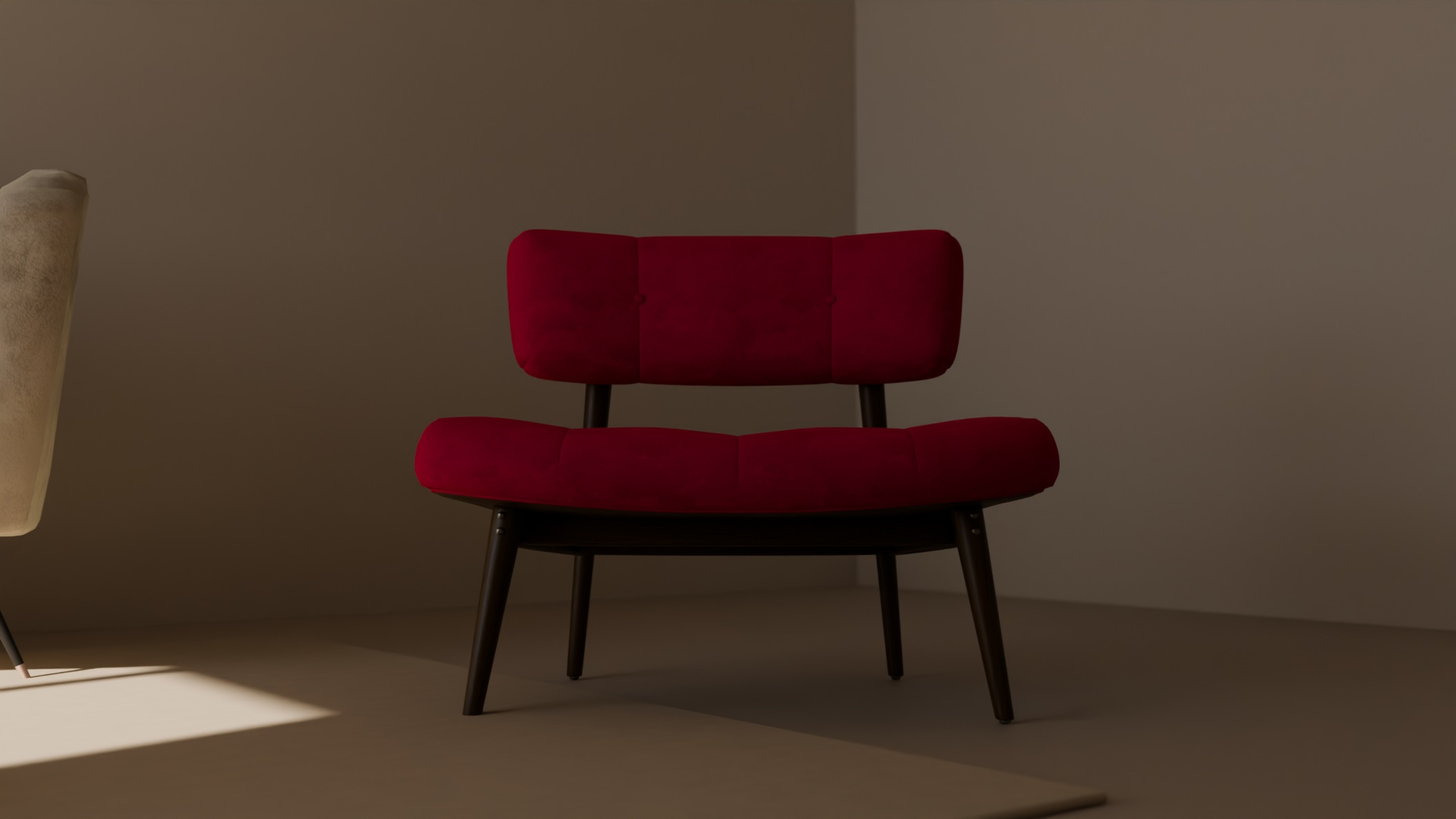
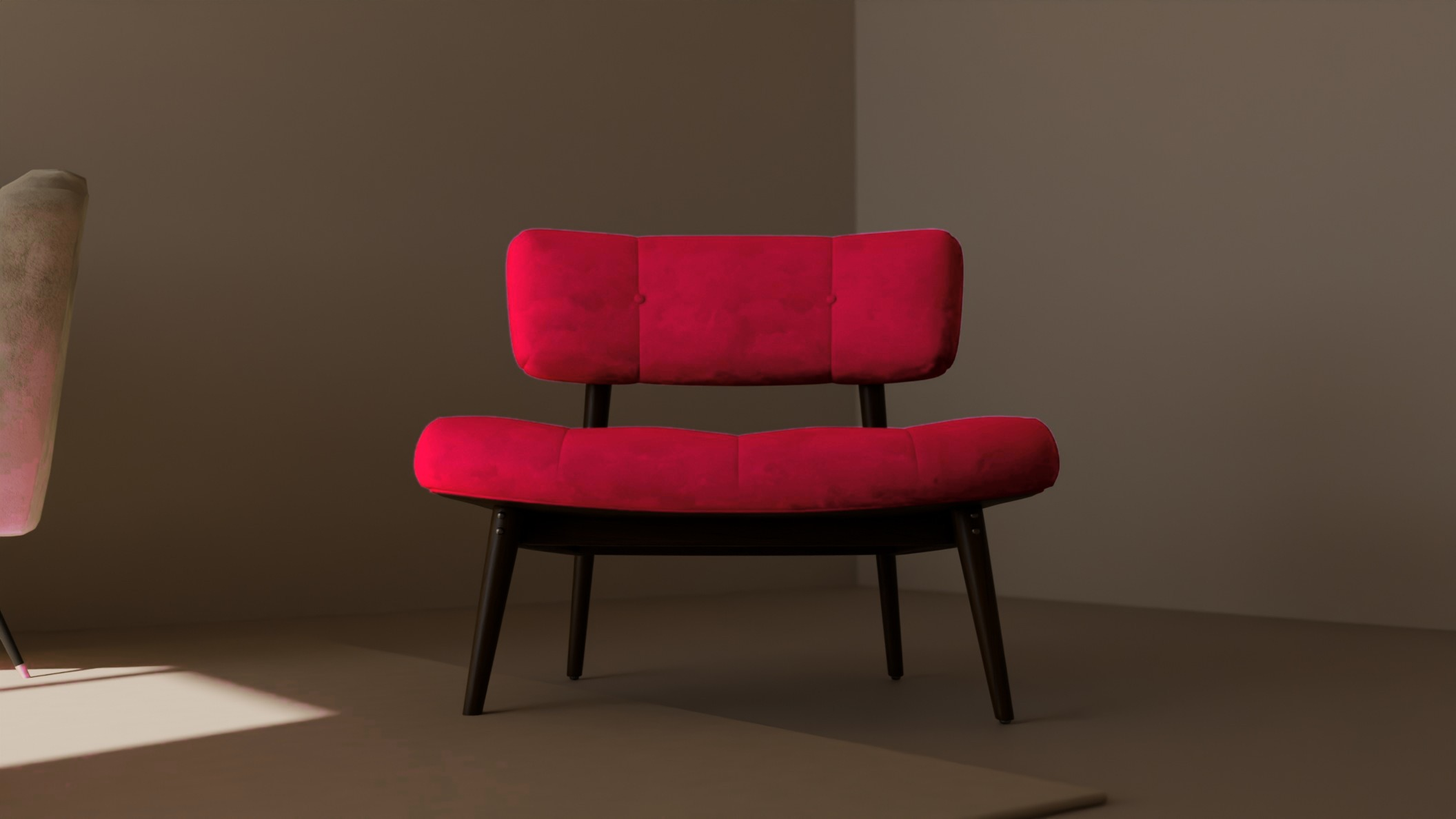
Ronde 3 du juge (7,5) : le fondateur dans le collage, une fin qui respire, plus de collage raté
- Ouverture : le dashboard v1 du fondateur (bleu + Arial, « Welcome back, User! », la poignée de main)
  arrive au centre parmi les beaux sites, sans teinte, curseur « You » posé dessus ; la barre M2 le traverse
- Fin : poussée de 1,5 %, la main suit Envoyer et hésite à 1542, anneau de survol ; la puce « vladan »
  remonte le bord droit et file dans TO sans passer sur le texte
- Chat : le pinceau ne teint que le velours bleu (masque tiré du rendu), trait plus large et plus doux ;
  lente poussée dans la vue 3D seulement
- Ship it : rayon de soleil visible sur les vitres, liserés sur les montants, contre-jour sur le dossier
- Rapport à 47 dès l'entrée ; barres du rapport à 0 vides ; téléphone à ×1,18 (marges) ;
  graphique « avant » posé sur sa ligne 0 ; puce de la grille au-dessus de « BORING ISSUES FOUND »
- Barre d'adresse de la carte de chaleur qui sort en entier ; Taste.tsx au pas des autres, guide prolongé ;
  fragments de fin en vrai code (« <h1> » n'est plus interprété) ; terminal : une espace, caret qui clignote,
  petite poussée ; landing : Ken Burns dans la carte ; chair_hero au rouge velours

Claude-Session: https://claude.ai/code/session_01YP8oHjmJmsAuw9WCGtV49x

Changed region(s): [[0.3438, 0.2803, 0.6875, 0.4672], [0.2812, 0.4983, 0.75, 0.6229], [0.0, 0.436, 0.0625, 0.654]]

diff --git a/saas-taste/js/shots2.js b/saas-taste/js/shots2.js
@@ -55,7 +55,9 @@ function shotTerm(F){ const f=F-1;
     Object.assign(tePanel.style,{left:(960-pw/2)+'px',top:(540-ph/2)+'px',width:pw+'px',height:ph+'px'});
     show(teSide,f>=790); const lx=f>=790?96:40, fs=lerp(34,26,st), lh=lerp(51,40,st);
     let w=''; for(const [wf,t] of TEW) if(f>=wf) w=t;
-    tePanelLine.innerHTML=`<span style="color:#F2EEE8">→</span> <span style="color:#F2EEE8">add</span>&nbsp;&nbsp;${w}`;
+    // une seule espace après « add » (plus de trou laissé par l'italique effacé) ; le caret clignote toutes les 8 images
+    tePanelLine.innerHTML=`<span style="color:#F2EEE8">→</span> <span style="color:#F2EEE8">add</span> ${w.replace(/^(&nbsp;|\s)+/,'')}<span style="display:inline-block;width:3px;height:1em;background:#F2EEE8;vertical-align:-0.15em;margin-left:4px;visibility:${Math.floor(f/8)%2?'hidden':'visible'}"></span>`;
+    TE.cam.style.transform=f<767?`scale(${(1+0.03*(0.5-0.5*Math.cos(Math.PI*clamp((f-750)/17)))).toFixed(4)})`:'';
     placeTL(tePanelLine,970-tePanelLine.offsetWidth/2,540-44,f>=766?1+0.1*(1-approach(f,766,4)):1);
     // le code arrive par paquets : insertion avec sélection (773, frappe 2 car./image jusqu'à 784), sauts d'indentation (784), paquets (788, 792, 796, 799)
     let row=0; teCode.forEach((d,i)=>{ const t0=CODE_T[i], on=f>=t0&&f>=767; show(d,on); if(!on) return;
@@ -115,12 +117,21 @@ const CH_HOVER=[[895,898,'bolt','Steel bolts · ×8'],[901,907,'seat','Velvet ·
 function chView3(f){ // caméra de la vue produit (réf) : recul + travelling flou à l'entrée, roulis, secousse au coup de pinceau, anticipation, poussée finale
   const a=approach(f,880,10,0.25); let s=lerp(1.25,1,a), x=120*(1-a), y=0, r=3*(approach(f,892,4)-approach(f,898,6));
   y+=22*(approach(f,924,2,0.5)-approach(f,927,8)); const an=approach(f,936,3); s*=1-0.04*an; r-=2.4*an*(1-approach(f,940,4));
+  s*=1+0.06*(0.5-0.5*Math.cos(Math.PI*clamp((f-890)/46)));   // lente poussée dans la vue 3D seulement : les panneaux et le texte ne bougent pas
   const pu=accel(f,940,10,3); s*=1+0.8*pu; y-=150*pu; return {s,x,y,r,bx:vel(t=>120*(1-approach(t,880,10,0.25)),f), by:vel(t=>-150*accel(t,940,10,3),f)}; }
 // le plateau tourne à vitesse constante (1,9°/image) jusqu'à 930, puis ralentit sur vladan et se pose de trois quarts
 function chIdx(f){ if(f<=930) return f-880; const t=clamp((f-930)/15); return 50+10*(1-(1-t)*(1-t)); }
 // M7 : le grand coup de feutre traverse l'assise ; l'encre boit dans le velours (926-932) en suivant le poil (luminance du rendu)
 const M7=()=>penPlace('G07',[862,492,1290,540]);
 const CH_MASK=document.createElement('canvas'); CH_MASK.width=275; CH_MASK.height=200;
+// le velours bleu (teinte 200-225°, saturation > 0,35), à basse résolution, adouci par l'agrandissement
+const CH_BLUE=document.createElement('canvas'); CH_BLUE.width=275; CH_BLUE.height=200; let CH_BLUE_SRC=null;
+function chBlueKey(src){ if(src===CH_BLUE_SRC) return; CH_BLUE_SRC=src; const x=CH_BLUE.getContext('2d'); x.clearRect(0,0,275,200); x.drawImage(src,0,0,275,200);
+  const im=x.getImageData(0,0,275,200), d=im.data;
+  for(let o=0;o<d.length;o+=4){ const r=d[o]/255, g=d[o+1]/255, b=d[o+2]/255, mx=Math.max(r,g,b), mn=Math.min(r,g,b), sat=mx>0?(mx-mn)/mx:0;
+    let h=0; if(mx===b&&mx>mn) h=240+60*(r-g)/(mx-mn); else if(mx===g&&mx>mn) h=120+60*(b-r)/(mx-mn);
+    const k=clamp((sat-0.3)/0.12)*clamp(1-Math.abs(h-212)/30); d[o]=d[o+1]=d[o+2]=255; d[o+3]=Math.round(255*k); }
+  x.putImageData(im,0,0); }
 function chToView(p,V){ // écran → pixels du canvas de la vue (inverse de la transformation CSS)
   const cx=630+459, cy=196+334; let x=p[0]-cx-V.x, y=p[1]-cy-V.y; const c=Math.cos(-V.r*Math.PI/180), s=Math.sin(-V.r*Math.PI/180);
   const xr=(x*c-y*s)/V.s, yr=(x*s+y*c)/V.s; return [(xr+459)*1100/918,(yr+334)*800/668]; }
@@ -144,7 +155,11 @@ function shotChat(f){
   // le coup de pinceau (918-924), puis le velours apparaît là où l'encre a bu, jusqu'à recouvrir tout le fauteuil (932)
   const ix=inkClear(chInk);
   // le pinceau teint le velours (fusion « couleur » : la teinte du stylo, le modelé du tissu), bord adouci : pas un autocollant
-  if(f>=918&&f<934){ const soak=clamp((f-924)/3); chInk.style.mixBlendMode='color'; chInk.style.filter='blur(3px)'; penDraw(ix,M7(),f,918,{size:34,alpha:1-soak,ground:'dark'}); }
+  if(f>=918&&f<934){ const soak=clamp((f-924)/3); chInk.style.mixBlendMode='color'; chInk.style.filter='blur(5px)'; penDraw(ix,M7(),f,918,{size:56,alpha:1-soak,ground:'dark'});
+    // la teinte ne touche que le velours bleu : masque tiré de l'image du fauteuil, posé avec la transformation de la vue
+    chBlueKey(TURN.blue[Math.min(47,i)]); ix.save(); ix.globalCompositeOperation='destination-in';
+    ix.setTransform(1,0,0,1,0,0); ix.translate(630+459+V.x,196+334+V.y); ix.rotate(V.r*Math.PI/180); ix.scale(V.s,V.s); ix.translate(-459,-334); ix.scale(918/1100,668/800);
+    ix.imageSmoothingEnabled=true; ix.drawImage(CH_BLUE,0,0,1100,800); ix.restore(); }
   const redOn=f>=925; show(chTurnR,redOn);
   if(redOn){ const red=TURN.red[clamp(i,38,71)]; const c=chTurnR.getContext('2d'); c.clearRect(0,0,1100,800); c.drawImage(red,0,0,1100,800);
     if(f<931){ chSoak(f,V,red); c.globalCompositeOperation='destination-in'; c.imageSmoothingEnabled=true; c.drawImage(CH_MASK,0,0,1100,800); c.globalCompositeOperation='source-over'; } }
@@ -182,8 +197,8 @@ const doFSeq=q1(doFullIn,'.vseq'), doFTitle=qa(doFullIn,'.vhead');
 const doTP=el(DO.cam,'','', 'position:absolute;inset:0;overflow:hidden;display:none;background:#EEE9E4');
 const doTPi=el(doTP,'','', 'position:absolute;left:0;top:0;width:1920px;height:1080px;transform-origin:960px 540px');
 doTPi.innerHTML=`<img src="img/turn/red_60.jpg" style="position:absolute;left:0;top:59px;width:1920px;height:1021px;object-fit:cover;object-position:50% 58%">
-  <div style="position:absolute;left:0;right:0;top:0;height:58px;background:#E4DFDA;box-shadow:0 1px 0 rgba(21,20,19,.12)">${[0,1,2].map(i=>`<span style="position:absolute;left:${24+i*23}px;top:22px;width:13px;height:13px;border-radius:50%;background:rgba(21,20,19,.15)"></span>`).join('')}
-  <div class="m" style="position:absolute;left:120px;top:12px;width:560px;height:34px;border-radius:9px;background:#F3EFEA;font-size:16px;line-height:34px;padding-left:16px;color:rgba(21,20,19,.7)">velvetly.app / <b style="font-weight:500;color:#151413">home</b></div></div>
+  <div class="dchr" style="position:absolute;left:0;right:0;top:0;height:58px;background:#E4DFDA;box-shadow:0 1px 0 rgba(21,20,19,.12)">${[0,1,2].map(i=>`<span style="position:absolute;left:${24+i*23}px;top:22px;width:13px;height:13px;border-radius:50%;background:rgba(21,20,19,.15)"></span>`).join('')}
+  <div class="m dchr" style="position:absolute;left:120px;top:12px;width:560px;height:34px;border-radius:9px;background:#F3EFEA;font-size:16px;line-height:34px;padding-left:16px;color:rgba(21,20,19,.7)">velvetly.app / <b style="font-weight:500;color:#151413">home</b></div></div>
   <div class="dghost" style="position:absolute;left:150px;top:150px;width:420px;height:280px;background:#D9DCE1"><svg width="120" height="96" viewBox="0 0 120 96" style="position:absolute;left:150px;top:80px"><rect x="3" y="3" width="114" height="90" rx="6" fill="none" stroke="#A9AEB6" stroke-width="4"/><circle cx="84" cy="30" r="10" fill="#A9AEB6"/><path d="M8 84 L42 44 L66 70 L80 56 L112 84 Z" fill="#A9AEB6"/></svg><div class="ar" style="position:absolute;left:0;right:0;top:204px;text-align:center;font-size:16px;color:#8A8F97">stock_handshake_final_v3.jpg</div></div>`;
 const doHeatC=canvas(doTPi,1920,1021,'left:0;top:59px;width:1920px;height:1021px');
 const doDotsC=canvas(doTPi,1920,1080,'left:0;top:0;width:1920px;height:1080px');
@@ -233,6 +248,7 @@ function shotDone(F){ const f=F-2;
     // les étiquettes restent fixes à l'écran pendant la poussée (sinon le cadre coupe « 1,204 sessions » et la légende)
     if(f<1062){ const Z=z*zz; Object.assign(doHud.style,{right:(1920-(960+(1892-960)/Z)).toFixed(1)+'px',top:(540+(84-540)/Z).toFixed(1)+'px',transform:`scale(${(1/Z).toFixed(4)})`,transformOrigin:'100% 0'});
       Object.assign(doLeg.style,{left:(960+(28-960)/Z).toFixed(1)+'px',bottom:(1080-(540+(1052-540)/Z)).toFixed(1)+'px',transform:`scale(${(1/Z).toFixed(4)})`,transformOrigin:'0 100%'}); }
+    qa(doTPi,'.dchr').forEach(e=>e.style.translate=`0 ${(-30*clamp((f-1018)/12)).toFixed(1)}px`);   // la barre d'adresse sort du cadre en entier, pas de liseré
     const k=f<1002?0:Math.min(5,1+Math.floor((f-1002)/3.6)); if(k!==doHeatK){ doHeatDraw(k); doHeatK=k; }
     q1(doTPi,'.dghost').style.opacity=(0.22*(1-clamp((f-1005)/6))).toFixed(3);
     const g=doDotsC.getContext('2d'); g.clearRect(0,0,1920,1080);
@@ -271,7 +287,7 @@ const grThumb2=crop(el(grIn,'gcard','', 'left:1680px;top:600px;width:240px;heigh
 const grStat=crop(el(grIn,'gcard','', 'left:240px;top:120px;width:480px;height:240px;display:none'));
 el(grStat,'abs m','BORING ISSUES FOUND','left:24px;top:22px;font-size:15px;letter-spacing:.1em;color:#8E877F'); const grNum=el(grStat,'abs ar','0','left:20px;top:58px;font-size:120px;color:#2D6CDF;line-height:1');
 const grChips=BORING.map(([t,n],i)=>{ const d=el(grIn,'m','',`position:absolute;height:52px;border-radius:12px;background:#151413;color:#F3EFEA;font-size:24px;line-height:52px;padding:0 20px;display:none;white-space:nowrap`); d._t=`${t} ×${n}`; d._st=1084+i*3; return d; });
-const GR_CHP=[[0,126],[600,486],[1700,126],[240,996],[1940,250],[740,250],[360,866]];
+const GR_CHP=[[0,58],[600,486],[1700,126],[240,996],[1940,250],[740,250],[360,866]];
 const grBars=crop(el(grIn,'gcard','', 'left:600px;top:600px;width:240px;height:240px;display:none')); const grBarE=BORING.map((b,i)=>el(grBars,'','', `position:absolute;left:${22+i*30}px;bottom:30px;width:22px;height:0;border-radius:2px;background:#2D6CDF`));
 const grCode=crop(el(grIn,'gcard','', 'left:1680px;top:360px;width:240px;height:240px;background:#151413;display:none'));
 const GR_CODE=['check("velvetly.app")','  .screens(5)','  .found(47)']; const grCodeL=GR_CODE.map((t,i)=>el(grCode,'abs m','',`left:16px;top:${30+i*34}px;font-size:16px;color:#F3EFEA`));
@@ -315,7 +331,7 @@ function shotReport(F){ const f=F-1;
   RE.cam.style.transform=`scale(${(1+0.08*approach(f,1131,36,0.09)).toFixed(4)})`;
   // la carte monte (40 px, 10 images), le 47 se compte, les lignes et les barres par catégorie arrivent une à une
   const p=approach(f,1130,6); place(reCard,960,545+40*(1-vl(f,1131,10))); reCard.style.opacity=lerp(0.3,1,p).toFixed(3);
-  reNum.textContent=Math.round(47*vladan(clamp((f-1131)/12)));
+  reNum.textContent='47';   // pas de compte à partir de 0 : dans ce film, 0 veut dire « réglé »
   reRows.forEach((r,i)=>{ const a=vl(f,1137+i*3,4); r.style.opacity=a.toFixed(2); r.style.transform=`translateY(${(8*(1-a)).toFixed(1)}px)`; });
   reBars.forEach((r,i)=>{ const a=vl(f,1139+i*2,5); r.style.opacity=Math.min(1,a*2).toFixed(2); r.lastChild.style.transform=`scaleX(${a.toFixed(3)})`; });
   // le clic du fondateur (1161) : « Applying… 0/47 », une ligne d'encre de 2 px qui atteint 6 % à 1175
@@ -403,21 +419,23 @@ const shSkyI=document.createElement('img'); shSkyI.src=shSkyC.toDataURL(); shSky
 const shWin=el(SH.cam,'','', 'position:absolute;inset:0;pointer-events:none');
 shWin.innerHTML=`<div style="position:absolute;left:0;top:0;right:0;height:26px;background:#151413"></div><div style="position:absolute;left:0;bottom:0;right:0;height:26px;background:#151413"></div>
   <div style="position:absolute;left:0;top:0;bottom:0;width:26px;background:#151413"></div><div style="position:absolute;right:0;top:0;bottom:0;width:26px;background:#151413"></div>
-  <div style="position:absolute;left:631px;top:0;bottom:0;width:18px;background:#151413"></div><div style="position:absolute;left:1271px;top:0;bottom:0;width:18px;background:#151413"></div>
-  <div style="position:absolute;left:0;right:0;top:351px;height:18px;background:#151413"></div>
+  <div style="position:absolute;left:631px;top:0;bottom:0;width:18px;background:#151413;box-shadow:inset 2px 0 0 rgba(255,228,206,.28),inset -2px 0 0 rgba(255,228,206,.16)"></div><div style="position:absolute;left:1271px;top:0;bottom:0;width:18px;background:#151413;box-shadow:inset 2px 0 0 rgba(255,228,206,.28),inset -2px 0 0 rgba(255,228,206,.16)"></div>
+  <div style="position:absolute;left:0;right:0;top:351px;height:18px;background:#151413;box-shadow:inset 0 2px 0 rgba(255,228,206,.28)"></div>
   <div style="position:absolute;left:-60px;right:-60px;top:1080px;height:900px;background:linear-gradient(180deg,#8E7F73 0,#7B6D63 220px,#665a52 900px)"></div>
   <div style="position:absolute;left:-60px;right:-60px;top:1080px;height:16px;background:#B7A799;box-shadow:0 1px 0 #CDBFB1 inset,0 10px 24px rgba(40,30,25,.35)"></div>`;
 // le fauteuil détouré (img/ship_chair.png, tiré de red_60), à contre-jour devant le mur ; il monte avec la pièce quand la caméra descend
 const shChair=el(SH.cam,'','', 'position:absolute;left:1520px;top:1168px;width:665px;height:602px');
-shChair.innerHTML='<img src="img/ship_chair.png" style="width:100%;height:100%;filter:brightness(.6) contrast(1.08) saturate(.95)">';
+shChair.innerHTML='<img src="img/ship_chair.png" style="width:100%;height:100%;filter:brightness(.6) contrast(1.08) saturate(.95) drop-shadow(0 -2px 0 rgba(255,205,180,.55))">';   // contre-jour : un liseré chaud sur le haut du dossier
 // le soleil entre en biais par la fenêtre : un rayon chaud très léger sur le mur et le fauteuil
-const shShaft=el(SH.cam,'','', 'position:absolute;inset:-200px;pointer-events:none;mix-blend-mode:screen;background:linear-gradient(118deg,transparent 30%,rgba(255,236,214,1) 42%,rgba(255,236,214,1) 52%,transparent 66%)');
+const shShaft=el(SH.cam,'','', 'position:absolute;left:-200px;top:-200px;width:2320px;height:1280px;pointer-events:none;mix-blend-mode:screen;background:linear-gradient(118deg,transparent 34%,rgba(255,240,224,1) 43%,rgba(255,240,224,1) 50%,transparent 59%)');
 const shBtn=el(SH.s,'bbtn',''); shBtn.style.zIndex=5; shBtn.style.width='228px'; shBtn.style.padding='0'; shBtn.style.textAlign='center'; shBtn.style.borderRadius='14px';
 const shRing=el(SH.s,'','', 'position:absolute;left:960px;top:540px;width:0;height:0;border-radius:50%;box-shadow:0 0 0 1px #151413;z-index:4');
 cR28(1250,'impact',{v:.5}); cR28(1293,'beep',{v:.6}); cR28(1298,'riser',{v:.55,end:1306});
 function shotShip(F){ const f=F-1; SH.cam.style.transform=`scale(${(1+0.03*clamp((f-1250)/56)).toFixed(4)})`;   // poussée de 3 %
-  shShaft.style.opacity=(0.08+0.03*Math.sin((f-1250)/9)).toFixed(3);
-  const y=-900*approach(f,1250,36,0.11); shSky.style.transform=`translateY(${y.toFixed(1)}px)`; shWin.style.transform=`translateY(${(y*0.35+0).toFixed(1)}px)`; shChair.style.transform=`translateY(${(y*0.42).toFixed(1)}px)`;
+  const y=-900*approach(f,1250,36,0.11);
+  // le rayon (≈ +14 niveaux sur les vitres) glisse de 60 px pendant le plan ; il ne descend pas sur le mur
+  shShaft.style.opacity='0.5'; shShaft.style.transform=`translateX(${(60*clamp((f-1250)/56)).toFixed(1)}px)`; shShaft.style.clipPath=`inset(0 0 ${Math.max(0,1280-(200+1080+y*0.35)).toFixed(0)}px 0)`;
+   shSky.style.transform=`translateY(${y.toFixed(1)}px)`; shWin.style.transform=`translateY(${(y*0.35+0).toFixed(1)}px)`; shChair.style.transform=`translateY(${(y*0.42).toFixed(1)}px)`;
   const n=clamp(f-1250,0,7); shBtn.innerHTML='Ship it'.slice(0,n)+(f<1262||Math.floor(f/8)%2?'<span style="display:inline-block;width:3px;height:40px;background:#F3EFEA;vertical-align:-6px;margin-left:3px"></span>':'');
   // le clic tombe à 1293, comme dans la réf
   const pr=f>=1293&&f<1295; place(shBtn,960,540,pr?0.94:1); shBtn.style.background='#151413';
@@ -446,14 +464,14 @@ const MOS=[[moP,1307],[moR,1325],[moDa,1336],[moL,1349]];
 cR29(1307,'impact',{v:.7}); cR29(1325,'impact',{v:.6}); cR29(1336,'impact',{v:.6}); cR29(1349,'impact',{v:.7}); [1312,1314,1315].forEach(f=>cR29(f,'tick',{v:.2})); cR29(1372,'shimmer',{v:.45,end:1378});
 // les fragments corrigés reviennent à la place exacte de leurs jumeaux ennuyeux (5, lisibles, 30 px), à cheval sur la fin du montage
 const OU_FIX=[[4,'/* done. it sits. */'],[10,'/* nothing is !important */'],[13,'cursor: you;'],[5,'<h1>Morning, Léa.</h1>'],[12,'ease: vladan;']];
-const moFix=OU_FIX.map(([i,t])=>{ const d=el(MO.s,'abs frag',t,'font-size:30px;z-index:20;display:none'); d._i=i; return d; });
+const moFix=OU_FIX.map(([i,t])=>{ const d=el(MO.s,'abs frag','','font-size:30px;z-index:20;display:none'); d.textContent=t; d._i=i; return d; });
 function fixFrags(list,f,f0){ list.forEach(d=>{ const on=f>=f0&&f<1386; show(d,on); if(!on) return; const src=wFr[d._i]; placeTL(d,src._x,src._y); d.style.color=mixc('#FFC2CD','#151413',clamp((f-f0)/6)); }); }
 function shotMont(F){ const f=F-1; let cur=MOS[0]; for(const m of MOS) if(f>=m[1]) cur=m;
   MOS.forEach(m=>show(m[0],m===cur)); const a=f-cur[1];
   let sc=1; if(cur[0]===moP) sc=1+0.035*approach(f,1307,18,0.12); else if(cur[0]===moR) sc=1+0.0007*a; else if(cur[0]===moDa) sc=1+0.0016*a; else sc=1-0.03*accel(f,1366,10,2);
   place(cur[0],960,540,sc);
   if(cur[0]===moP){ moStat.firstChild.textContent=f>=1314?'+45%':'+14%'; moStat2.textContent=f>=1315?'0:42':'52 s'; }
-  if(cur[0]===moDa) moBars.forEach((r,i)=>{ r.lastChild.style.transform=`scaleX(${(1-vl(f,1337+i,5)).toFixed(3)})`; });
+  if(cur[0]===moDa) moBars.forEach((r,i)=>{ r.lastChild.style.transform=`scaleX(${(1-vl(f,1336+i*0.4,3)).toFixed(3)})`; });   // toutes à 0 dès 1342
   if(cur[0]===moL){ seqDraw(moLSeq,SEQ.land,a*1.0,0.5,0.58); moLh.style.transform=`translateX(${(-2.3*a).toFixed(1)}px)`;
     moLT.forEach((t,i)=>{ const p=approach(f,1350+i,8,0.2); t.style.translate=`0 ${((1-p)*24).toFixed(1)}px`; }); }
   fixFrags(moFix,f,1366);
@@ -462,7 +480,7 @@ function shotMont(F){ const f=F-1; let cur=MOS[0]; for(const m of MOS) if(f>=m[1
 /* ---------- 31-32 · fragments corrigés → anneau → marque → « vladan » + « Made in code. Marked up by hand. » → la carte de fin : le brief était un e-mail à Vladan ---------- */
 const OU=scene('sOutro',1380,1559,f=>shotOutro(f));
 const cR31=cueAt(2);
-const ouFix=OU_FIX.map(([i,t])=>{ const d=el(OU.s,'abs frag',t,'font-size:30px;z-index:20;display:none'); d._i=i; return d; });
+const ouFix=OU_FIX.map(([i,t])=>{ const d=el(OU.s,'abs frag','','font-size:30px;z-index:20;display:none'); d.textContent=t; d._i=i; return d; });   // textContent : « <h1> » reste du code
 const ouGl=gset(16,77,420,190).map(g=>{ const d=el(OU.cam,'abs c glyph'); d._g=g; d.textContent=g[0]; d.style.color=GINK; return d; });
 const ouDot=el(OU.cam,'abs','', 'border-radius:50%');
 const ouMark=el(OU.cam,'abs','', 'width:81px;height:81px'); ouMark.innerHTML=MARK_SVG;
@@ -503,6 +521,7 @@ const DOT_C=['#151413','#151413','#151413','#FF3D5E'];
 function ouLineGeom(f){ const sp=12, pad=30; const TW=OUW.map((_,i)=>OUL.ws.slice(0,i+1).reduce((a,b)=>a+b+sp,0)-sp); let tw=TW[0]; for(let i=1;i<OUW.length;i++) tw=lerp(tw,TW[i],approach(f,OUW[i][0],9,0.5));
   const h=vl(f,1489,6); const S=lerp(1,200/48,h); const x0=lerp(960-tw/2,144,h), y0=lerp(540-26,120,h); return {tw,S,x0,y0,sp,pad,h}; }
 function shotOutro(F){ const f=F-2; push(OU.cam,f,1378,f<1489?0.0008:0);
+  const OS=f>=1520?1+0.015*(1-Math.pow(1-clamp((f-1520)/39),2)):1; if(f>=1520) OU.cam.style.transform=`scale(${OS.toFixed(4)})`;   // l'affiche respire : 1,5 % de poussée, pas un arrêt sur image
   fixFrags(ouFix,f,1366);
   // anneau de glyphes à l'encre (1385-1391), le point à l'encre puis rouge à l'arrivée de la marque (1398)
   const k=lerp(1,0.7,approach(f,1387,6)); ouGl.forEach((d,i)=>{ const on=f>=1385&&f<1392; show(d,on); if(!on) return; const g=d._g; place(d,960+g[1]*k,540+g[2]*k); });
@@ -531,15 +550,19 @@ function shotOutro(F){ const f=F-2; push(OU.cam,f,1378,f<1489?0.0008:0);
     const hh=226*vl(f,1496,4); ouTo.style.height=hh+'px'; ouBody.style.top=(44+hh*(212/226))+'px';
     const fl=clamp((f-1499)/6), fe=vladan(fl); ouMC.style.opacity=(1-clamp((f-1499)/2)).toFixed(2); ouMW.style.visibility=f>=1499?'hidden':'visible'; ouModel.style.width=f>=1499?lerp(110,0,clamp((f-1499)/3))+'px':'';
     const cr=ouCard.getBoundingClientRect(), st=OU.s.getBoundingClientRect(), kk=st.width/W;
-    show(ouFly,f>=1499&&f<1505); if(f>=1499&&f<1505){ const sx=144+1500-130-110, sy=440+OU_CH-38-26, tx=144+44+150, ty=440+16+5; const x=lerp(sx,tx,fe), y=lerp(sy,ty,fe)-60*Math.sin(Math.PI*fl);
+    show(ouFly,f>=1499&&f<1505); if(f>=1499&&f<1505){ const sx=144+1500-130-110, sy=440+OU_CH-38-26, tx=144+44+150, ty=440+16+5; const cx=1480, cy=470, m=1-fe; const x=m*m*sx+2*m*fe*cx+fe*fe*tx, y=m*m*sy+2*m*fe*cy+fe*fe*ty;   // remonte le bord droit puis file dans TO : jamais au-dessus du texte
       placeTL(ouFly,x,y,lerp(1,92/26,fe)); }
     ouToA.textContent=f<1505?'':'vladan'+'@kwinndo.fr'.slice(0,Math.floor((f-1505+1)*2));
     // le trait M3 séché, toujours sur « Arial, »
-    const ix=inkClear(ouInk); const sp=q1(ouBrief,'.ari'); if(sp&&r>0.5){ const b=sp.getBoundingClientRect(); const rr=[(b.left-st.left)/kk,(b.top-st.top)/kk,(b.right-st.left)/kk,(b.bottom-st.top)/kk];
+    const ix=inkClear(ouInk); const sp=q1(ouBrief,'.ari'); if(sp&&r>0.5){ const b=sp.getBoundingClientRect(); const cx_=v=>960+(v-960)/OS, cy_=v=>540+(v-540)/OS; const rr=[cx_((b.left-st.left)/kk),cy_((b.top-st.top)/kk),cx_((b.right-st.left)/kk),cy_((b.bottom-st.top)/kk)];   // écran → caméra (la poussée finale)
       penDraw(ix,penPlace('G03',[rr[0]-6,rr[3]-28*0.52*0.5-9,rr[2]+10,0]),1e6,0,{size:3.4,alpha:r}); }
     // M9 : le stylo souligne « taste. » (1508-1516) ; le soulignement dépasse quand l'italique, plus étroit, prend sa place
     if(f>=1508){ const x=G.x0+(OUL.ws[0]+OUL.ws[1]+2*G.sp)*G.S, w=OUL.ws[2]*G.S; penDraw(ix,penPlace('G09',[x-4,G.y0+48*G.S*0.98,x+w+8,0]),f,1508,{size:13}); } }
   // le fondateur revient (linéaire, sur deux images) ; à 1524 la main survole Envoyer, au même décalage qu'à 206. Il ne clique jamais : le bouton ne change pas.
-  const cf=twos(f,1516), cp=clamp((cf-1516)/8); const sx2=144+1500-30-36, sy2=440+OU_CH-24-36;
-  cursor(lerp(1760,sx2-4,cp),lerp(1010,sy2+4,cp),0,f>=1516,1,f>=1524?'hand':'arrow');
+  // la cible est lue sur le bouton lui-même (il suit la poussée) ; à 1542 la main hésite (6 px vers Envoyer, puis revient) ; anneau de survol, jamais pressé
+  const cf=twos(f,1516), cp=clamp((cf-1516)/8); let sx2=144+1500-30-36, sy2=440+OU_CH-24-36;
+  if(f>=1492){ const b=ouSend.getBoundingClientRect(), st=OU.s.getBoundingClientRect(), kk=st.width/W; sx2=((b.left+b.right)/2-st.left)/kk; sy2=((b.top+b.bottom)/2-st.top)/kk; }
+  const hz=f>=1542&&f<1550?Math.sin(Math.PI*(f-1542)/8)*6:0;
+  cursor(lerp(1760,sx2-4,cp)-hz*0.7,lerp(1010,sy2+4,cp)-hz*0.7,0,f>=1516,1,f>=1524?'hand':'arrow');
+  ouSend.style.boxShadow=f>=1524?`0 0 0 ${(4*vl(f,1524,4)).toFixed(1)}px rgba(21,20,19,.3)`:'';
 }

diff --git a/saas-taste/js/shots1.js b/saas-taste/js/shots1.js
@@ -63,6 +63,20 @@ const wCol=el(W1.cam,'abs','', 'inset:0;width:1920px;height:1080px'); let wColB=
 const wB=BR.map(([x,y,w,h,si])=>{ const d=el(wCol,'bshot',SITES[si].html, `left:0;top:0;width:${w}px;height:${h}px;transform-origin:0 0;background:${SITES[si].color}`); d._r=[x,y,w,h]; d._si=si; return d; });
 const wX=BXT.map(([si,w,h])=>{ const d=el(wCol,'bshot',SITES[si].html, `left:0;top:0;width:${w}px;height:${h}px;transform-origin:0 0;background:${SITES[si].color}`); d._w=w; d._h=h; d._si=si; return d; });
 const ease3=t=>t<.5?4*t*t*t:1-Math.pow(-2*t+2,3)/2;
+// la carte du fondateur parmi les beaux sites (juge, ronde 3) : SON dashboard v1, bleu #2D6CDF + Arial, pas de teinte ;
+// elle arrive en dernier (92, quand « boring. » s'en va), au centre, le curseur « You » posé dessus ; la barre M2 la traverse et la déchirure l'emporte
+const wFo=el(wCol,'bshot','', 'left:0;top:0;width:560px;height:350px;transform-origin:0 0;background:#F4F6F9;display:none;overflow:hidden;border-radius:10px');
+wFo.innerHTML=`<div class="ar" style="position:absolute;inset:0;font-family:'AR'">
+  <div style="position:absolute;left:0;top:0;bottom:0;width:118px;background:#2D6CDF;color:#fff"><div style="position:absolute;left:16px;top:18px;font-weight:700;font-size:17px">velvetly</div>
+    ${['Dashboard','Rooms','Embeds','Settings'].map((t,i)=>`<div style="position:absolute;left:10px;right:10px;top:${58+i*30}px;height:24px;border-radius:5px;${i?'':'background:rgba(255,255,255,.18);'}font-size:11px;line-height:24px;padding-left:10px">${t}</div>`).join('')}</div>
+  <div style="position:absolute;left:138px;top:20px;font-weight:700;font-size:21px;color:#333">Welcome back, User! <span style="font-family:'Noto Color Emoji'">👋</span></div>
+  <div style="position:absolute;left:138px;top:48px;font-size:11px;color:#777">Here is your dashboard overview.</div>
+  <div style="position:absolute;right:16px;top:18px;height:28px;line-height:28px;padding:0 14px;border-radius:5px;background:#2D6CDF;color:#fff;font-size:12px;font-weight:700;box-shadow:0 4px 8px rgba(0,0,0,.35)">Get Started</div>
+  ${[['Rooms published','1,234'],['Embeds','312'],['3D views','48.2k']].map(([t,v],i)=>`<div style="position:absolute;left:${138+i*136}px;top:76px;width:124px;height:66px;background:#fff;box-shadow:0 2px 6px rgba(0,0,0,.18)"><div style="position:absolute;left:10px;top:9px;font-size:10px;color:#777">${t}</div><div style="position:absolute;left:10px;top:30px;font-size:21px;font-weight:700;color:#333">${v}</div></div>`).join('')}
+  <div style="position:absolute;left:138px;top:156px;width:250px;height:176px;background:#fff;box-shadow:0 2px 6px rgba(0,0,0,.18)"><div style="position:absolute;left:12px;top:10px;font-size:11px;font-weight:700;color:#333">Monthly 3D Views</div>
+    ${[40,52,34,60,48,70,44,74,62,84,66,90].map((h,i)=>`<i style="position:absolute;left:${16+i*19}px;bottom:16px;width:12px;height:${h*1.25}px;background:#2D6CDF;display:block"></i>`).join('')}</div>
+  <div style="position:absolute;left:402px;top:156px;width:142px;height:176px;background:#D9DCE1"><svg width="56" height="45" viewBox="0 0 120 96" style="position:absolute;left:43px;top:52px"><rect x="3" y="3" width="114" height="90" rx="6" fill="none" stroke="#A9AEB6" stroke-width="6"/><circle cx="84" cy="30" r="10" fill="#A9AEB6"/><path d="M8 84 L42 44 L66 70 L80 56 L112 84 Z" fill="#A9AEB6"/></svg>
+    <div style="position:absolute;left:0;right:0;top:112px;text-align:center;font-size:8.5px;color:#8A8F97">stock_handshake_final_v3.jpg</div></div></div>`;
 [10,17,23,30].forEach((f,i)=>cue(f,'pluck',{n:[64,67,69,71][i],v:.3})); cue(8,'tick',{v:.4}); cue(37,'scratch',{v:.45,end:41}); [43,44,45,46,47].forEach(f=>cue(f,'tick',{v:.16}));
 [27,33,36,42,49].forEach(f=>cue(f,'tick',{v:.2})); cue(53,'shimmer',{v:.3,end:61}); cue(104,'riser',{v:.4,end:119}); cue(62,'swish',{v:.45,peak:64,dur:6}); cue(89,'whoosh',{v:.4,peak:99,dur:14}); [64,66,67,70].forEach(f=>cue(f,'tick',{v:.2})); cue(96,'swish',{v:.45,peak:97,dur:4}); cue(104,'scratch',{v:.9,end:111}); cue(113,'tear',{v:.6,end:121}); cue(114,'reel',{v:.35,end:127});
 function wState(f){ let st=['','']; for(const [wf,a,b] of WST) if(f>=wf) st=[a,b]; return st; }
@@ -102,6 +116,13 @@ function shotW(f){ push(W1.cam,f,0,0.0009);
     d.style.transform=`translate(${(Xg-d._w*Sg/2).toFixed(1)}px,${(Yg-d._h*Sg/2).toFixed(1)}px) rotate(${rot}deg) scale(${Sg.toFixed(4)})`; d.style.borderRadius='10px'; d.style.boxShadow='0 20px 50px -20px rgba(40,30,30,.35)';
     mblur(d,vel(t=>lerp(960+ox*1400+cx,960+cx,approach(t,st,12)),f)*BLUR,vel(t=>lerp(540+oy*900+cy,540+cy,approach(t,st,12)),f)*BLUR);
     d.style.filter=(f>=114&&f<117?DUO(d._si):''); });
+  // la carte du fondateur : monte du bas à 88, se pose au centre, sur le dessus ; le curseur « You » se pose sur « Get Started » (il ne clique pas)
+  const foOn=f>=92; show(wFo,foOn);
+  if(foOn){ const p=approach(f,92,7,0.22), S=1.0+0.02*clamp((f-98)/14), X=960, Y=lerp(1000,548,p);
+    wFo.style.zIndex=40; wFo.style.transform=`translate(${(X-280*S).toFixed(1)}px,${(Y-175*S).toFixed(1)}px) scale(${S.toFixed(4)})`;
+    wFo.style.boxShadow='0 30px 60px -24px rgba(40,30,30,.45)'; mblur(wFo,0,vel(t=>lerp(1000,548,approach(t,92,7,0.22)),f)*BLUR*0.5);
+    wFo.style.filter=f>=116?`blur(${(accel(f,116,5,1.6)*18).toFixed(1)}px)`:'';
+    const cp=clamp((twos(f,97)-97)/7); if(f>=97&&f<113) cursor(lerp(1330,X+238*S,cp),lerp(820,Y-175*S+40*S,cp),0,true,1,cp>=1?'hand':'arrow'); }
   // M2 : la barre oblique traverse toute la pile (104-111), la pile se déchire le long du trait (113-119)
   if(f>=104&&f<120){ const st=M2(); if(f<114) penDraw(cx,st,f,104,{size:13}); else slashThread(cx,f); }
   tear(f);
@@ -231,6 +252,7 @@ function shotLand(f){
   place(laFrame,x,y,sc); laFrame.style.filter=gone>0?`blur(${(10*gone).toFixed(1)}px) brightness(${(1+0.35*gone).toFixed(2)})`:''; laFrame.style.opacity=(1-0.85*clamp((f-297)/3)).toFixed(3);
   mblur(LA.cam,f>=276&&f<281?vel(t=>40*accel(t,274,6.5,2.6),f):0,0);
   seqDraw(laSeq,SEQ.land,fl-234);
+  { const t=0.5-0.5*Math.cos(Math.PI*clamp((f-238)/52)); laSeq.style.transformOrigin='50% 55%'; laSeq.style.transform=`translateX(${(-40*t).toFixed(1)}px) scale(${(1+0.06*t).toFixed(4)})`; }   // Ken Burns dans la carte
   q1(laD,'.lnh').style.transform=`translateX(${(-290*approach(f,235,36,0.10)).toFixed(1)}px)`;
   qa(laMark,'svg path').forEach(p=>p.style.strokeDashoffset=(1-vl(f,234,4)).toFixed(3));
   if(INK&&f<234){ show(INK.canvas,true); LA.s.appendChild(INK.canvas); const r=laMark.getBoundingClientRect(), st=LA.s.getBoundingClientRect(), k=st.width/W;
@@ -256,11 +278,12 @@ const TREE=[[300,'▾ Taste Files',150,0,'title'],[305,'Brand.ts',380,1,'file'],
 const glyphs=t=>[...t].map(c=>`<span class="g">${c}</span>`).join('');
 const trEls=TREE.map(([f0,t,x,row,kind])=>{ const d=el(TR.cam,'titem'); d._k=kind; d._x=x; d._row=row; d._f=f0; d._t=t;
   d.innerHTML=kind==='title'?`<span style="font-family:JB;margin-right:16px">▾</span>Taste Files`:kind==='dir'?`<span class="chev" style="font-family:JB;display:inline-block;margin-right:16px">›</span>${t}`
-    :kind==='last'?`<span class="fi"></span><em style="font-size:82px">Taste</em>.tsx`:`<span class="fi"></span>${/NoMoreArial|EaseOut/.test(t)?glyphs(t):t}`;
-  Object.assign(d.style,{fontSize:kind==='title'?'84px':kind==='last'?'84px':'72px',color:'#151413'}); if(kind==='title') d.style.color='#3A3633'; return d; });
+    :kind==='last'?`<span class="fi"></span><em style="font-size:72px">Taste</em>.tsx`:`<span class="fi"></span>${/NoMoreArial|EaseOut/.test(t)?glyphs(t):t}`;
+  Object.assign(d.style,{fontSize:kind==='title'?'84px':'72px',color:'#151413'}); if(kind==='title') d.style.color='#3A3633'; return d; });
 const trEase=el(TR.cam,'abs','', 'display:flex;align-items:center;gap:18px'); 
 trEase.innerHTML=`<svg width="120" height="44" viewBox="0 0 120 44"><path d="M2 42 ${Array.from({length:41},(_,i)=>`L${(2+i*2.9).toFixed(1)} ${(42-40*vladan(i/40)).toFixed(1)}`).join(' ')}" fill="none" stroke="#151413" stroke-width="1.75" stroke-linecap="round"/></svg><span class="m" style="font-size:22px;color:#151413">ease: vladan</span>`;
-const trLines=[[360,1,3],[590,4,6]].map(([x,a,b])=>{ const l=el(TR.cam,'tline'); l._x=x; l._a=a; l._b=b; return l; });
+const trLines=[[360,1,3],[590,4,7]]   // le guide descend jusqu'à Taste.tsx, frère d'EaseOut au même pas de 100 px
+.map(([x,a,b])=>{ const l=el(TR.cam,'tline'); l._x=x; l._a=a; l._b=b; return l; });
 TREE.forEach(([f0],i)=>cue(f0,i==TREE.length-1?'pluck':'tick',{v:i==TREE.length-1?.5:.3,n:79}));
 const TR_STEPS=[[305,232],[312,219],[317,175],[322,149],[329,107]];
 function trY(f){ let y=313; for(const [s,t] of TR_STEPS) y=lerp(y,t,approach(f,s,s==329?9:4,0.3)); return y; }
@@ -441,7 +464,7 @@ phDone.innerHTML=`<div style="position:absolute;left:24px;top:96px;width:44px;he
 cR14(559,'impact',{v:.55}); cR14(566,'shimmer',{v:.35,end:578}); [588,603].forEach(f=>cR14(f,'tick',{v:.3})); cR14(606,'swish',{v:.45,peak:609,dur:8}); cR14(608,'pop',{v:.5,n:84});
 function shotPhone(F){ const f=F-2;   // numéros de la réf (REMAP +2)
   // dépli en hauteur (478 → 861 px), puis la caméra s'approche (×0,9 → ×1,28, décélération) en tournant de 4° : le téléphone vit
-  const pt=clamp((f-559)/82), ps=lerp(0.9,1.28,1-Math.pow(1-pt,2.2)), ry=lerp(-2.5,1.5,pt);
+  const pt=clamp((f-559)/82), ps=lerp(0.9,1.18,1-Math.pow(1-pt,2.2)), ry=lerp(-2.5,1.5,pt);   // 1,18 : ~60 px de marge, le téléphone ne touche jamais le cadre
   phone.style.transform=`translate(960px,540px) translate(-50%,-50%) perspective(2400px) rotateY(${ry.toFixed(2)}deg) scale(${ps.toFixed(4)}) scaleY(${lerp(0.555,1,approach(f,559,13,0.25)).toFixed(4)})`;
   phShadow.style.transform=`translateY(${(430*(ps-1)).toFixed(1)}px) scale(${ps.toFixed(3)},1)`;
   seqDraw(phSeq,SEQ.phone,f-559); phSeq.style.transform=`scale(1.14) translateX(${lerp(-24,24,pt).toFixed(1)}px)`;

diff --git a/saas-taste/js/dash.js b/saas-taste/js/dash.js
@@ -27,7 +27,8 @@ function buildDash(root){
   });
   h+=`<div class="d-box" id="CH" style="left:300px;top:350px;width:650px;height:410px">`;
   h+=sw(5,0,28,20,36,`<span class="ar" style="font-weight:700;font-size:18px;color:#333">Monthly 3D Views</span>`,`<span style="font-size:25px;letter-spacing:-0.02em">3D views <span class="m" style="font-size:15px;color:#8E877F;letter-spacing:0">· 12 mo</span></span>`);
-  [0,1,2,3].forEach(i=>{ h+=`<div class="grid" style="left:62px;top:${125+i*62}px;width:560px"></div><div class="glab gl" style="left:24px;top:${118+i*62}px">${['15k','10k','5k','0'][i]}</div>`; });
+  // la ligne « 0 » est la base des barres (372) : même ennuyeux, le graphique est juste
+  [0,1,2,3].forEach(i=>{ h+=`<div class="grid" style="left:62px;top:${186+i*62}px;width:560px"></div><div class="glab gl" style="left:24px;top:${179+i*62}px">${['15k','10k','5k','0'][i]}</div>`; });
   h+=`<div id="BARS" style="position:absolute;left:0;top:0;width:650px;height:372px">`;
   for(let i=0;i<12;i++) h+=`<div class="d-bar"></div>`;
   h+=`</div><div class="chip" id="TIP" style="background:var(--ink);color:#F3EFEA">48.2k</div>`;
